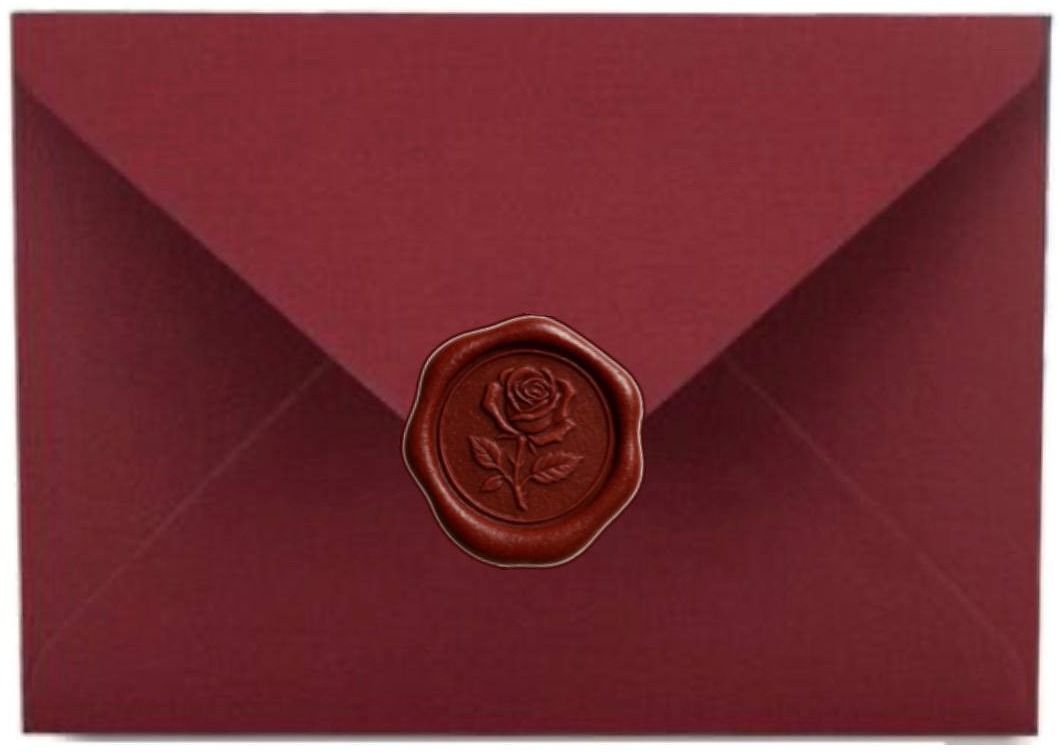
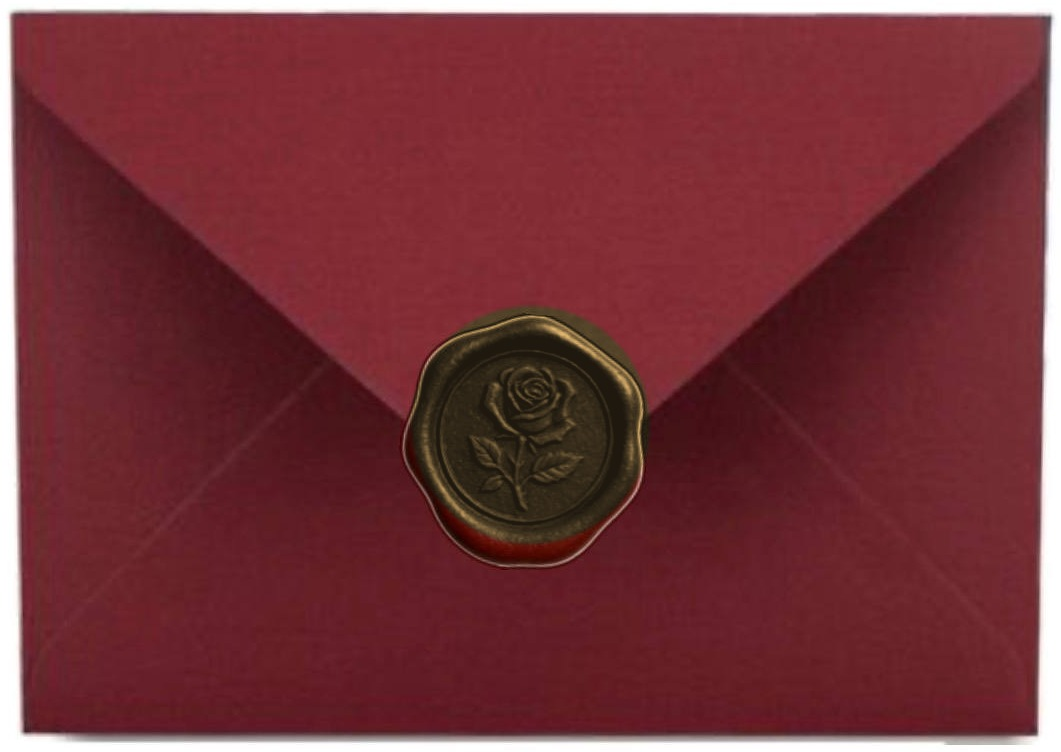
Gold-tone the wax seal directly on the photo, drop the redundant CSS seal overlay, move the flap/body cut line below the seal, and turn the 4 lace corners into 2 large drapes with straight edges bled off-card

Changed region(s): [[0.3732, 0.3976, 0.6221, 0.734]]

diff --git a/index.html b/index.html
@@ -58,6 +58,7 @@
     background:var(--cream);
     box-shadow:0 0 60px rgba(87,20,30,.12);
     isolation:isolate;
+    overflow:hidden;
   }
   .page::before{
     content:""; position:absolute; inset:0; z-index:0; pointer-events:none;
@@ -95,7 +96,9 @@
 
   /* ---------- photo cutout stickers (real alpha PNGs) ---------- */
   .sticker{ position:absolute; pointer-events:none; }
-  .lace-corner{ position:absolute; width:min(26vw,120px); height:auto; z-index:0; opacity:.9; pointer-events:none; }
+  .lace-drape{ position:absolute; width:min(85%,460px); height:auto; z-index:0; opacity:.92; pointer-events:none; }
+  .lace-drape.top{ top:0; left:0; transform:translate(-22%,-14%); }
+  .lace-drape.bottom{ bottom:0; right:0; transform:translate(22%,14%) rotate(180deg); }
 
   .disco-photo{ pointer-events:none; filter:drop-shadow(0 3px 8px rgba(20,4,8,.3)); }
   .disco-big{ position:absolute; top:5%; right:3%; width:min(22vw,110px); z-index:2; }
@@ -159,30 +162,19 @@
   .env-body{
     position:absolute; inset:0; border-radius:6px;
     background-image:url("assets/envelope-ref-trim.jpg"); background-size:cover; background-position:center;
-    clip-path:polygon(0 0, 50% 58%, 100% 0, 100% 100%, 0 100%);
+    clip-path:polygon(0 0, 50% 70%, 100% 0, 100% 100%, 0 100%);
     box-shadow:var(--shadow);
   }
 
   .env-flap{
     position:absolute; left:0; top:0; width:100%; height:100%;
     background-image:url("assets/envelope-ref-trim.jpg"); background-size:cover; background-position:center;
-    clip-path:polygon(0 0,100% 0,50% 58%);
+    clip-path:polygon(0 0,100% 0,50% 70%);
     transform-origin:top center; transition:transform 1.3s cubic-bezier(.6,-.15,.2,1.15);
     box-shadow:0 6px 14px rgba(20,4,8,.3);
     backface-visibility:hidden; border-radius:6px;
   }
   .envelope.is-open .env-flap{ transform:rotateX(178deg); }
-
-  .env-seal{
-    position:absolute; left:50%; top:56%; width:19%; aspect-ratio:1;
-    transform:translate(-50%,-50%); border-radius:50%;
-    background:radial-gradient(circle at 35% 30%, #e6c37e, var(--gold) 70%);
-    box-shadow:0 4px 10px rgba(20,4,8,.4), inset 0 -3px 5px rgba(120,85,20,.35);
-    display:flex; align-items:center; justify-content:center;
-    transition:opacity .6s ease, transform .6s ease; z-index:2;
-  }
-  .envelope.is-open .env-seal{ opacity:0; transform:translate(-50%,-50%) scale(.4); }
-  .env-seal svg{ width:62%; height:62%; }
 
   .env-hint{ font-size:.78rem; color:currentColor; opacity:.65; }
   .arrow{ color:var(--accent); }
@@ -303,10 +295,8 @@
 
   <!-- ============ HERO / ENVELOPE ============ -->
   <section class="hero" id="hero">
-    <img class="lace-corner" style="top:0; left:0;" src="assets/lace.png" alt="" aria-hidden="true">
-    <img class="lace-corner tr" style="top:0; right:0; transform:scaleX(-1);" src="assets/lace.png" alt="" aria-hidden="true">
-    <img class="lace-corner bl" style="bottom:0; left:0; transform:scaleY(-1);" src="assets/lace.png" alt="" aria-hidden="true">
-    <img class="lace-corner br" style="bottom:0; right:0; transform:rotate(180deg);" src="assets/lace.png" alt="" aria-hidden="true">
+    <img class="lace-drape top" src="assets/lace.png" alt="" aria-hidden="true">
+    <img class="lace-drape bottom" src="assets/lace.png" alt="" aria-hidden="true">
 
     <img class="disco-photo disco-big float-slow" src="assets/disco-ball.png" alt="" aria-hidden="true">
     <div class="disco-cherries float" aria-hidden="true">
@@ -322,12 +312,6 @@
         <div class="envelope-inner">
           <div class="env-body"></div>
           <div class="env-flap"></div>
-          <div class="env-seal">
-            <svg viewBox="0 0 24 24" fill="none" xmlns="http://www.w3.org/2000/svg">
-              <path d="M12 8v9M9 12c0-2 1.5-4 3-4s3 2 3 4-1.5 4-3 4-3-2-3-4z" stroke="var(--ink)" stroke-width=".8" opacity=".55" fill="none"/>
-              <path d="M12 8c-2-1-3 0-3 1.5" stroke="var(--ink)" stroke-width=".8" opacity=".55" fill="none"/>
-            </svg>
-          </div>
         </div>
       </div>
     </div>
